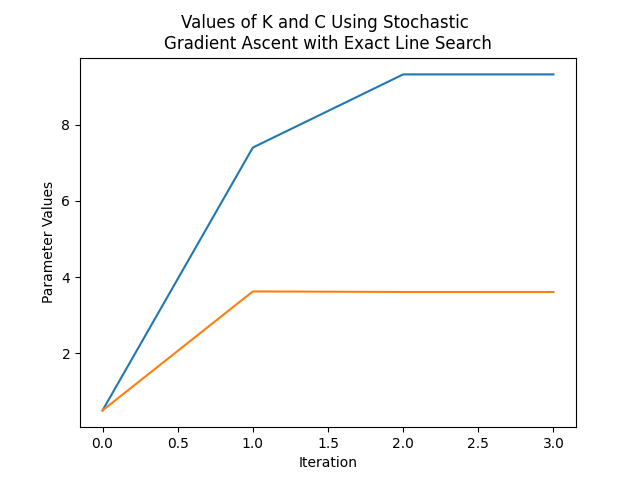
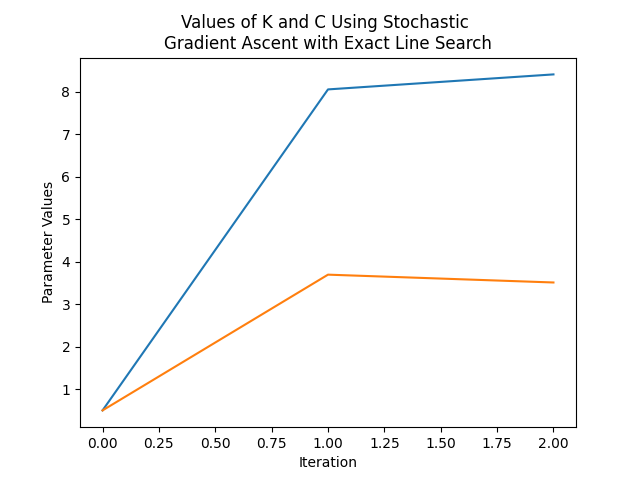
got newtons method working somehow

diff --git a/problem2/Problem2.py b/problem2/Problem2.py
@@ -12,6 +12,7 @@ import seaborn as sns
 from gradient_ascent import gradient_descent_using_exact_line_search
 from accelerated_gradient_ascent import accelerated_gradient_descent_using_exact_line_search
 from stochastic_gradient_ascent import stochastic_gradient_descent_using_exact_line_search
+from newtons_method import newtons_method_using_exact_line_search
 
 def optimizer_1_report(
     y : np.ndarray
@@ -124,26 +125,68 @@ def optimizer_3_report(
     plt.clf()
     plt.cla()
 
+def optimizer_4_report(
+    y : np.ndarray
+) -> None:
+    '''
+    '''
+    best_k, best_c, k_history, c_history, log_likelihood_history = newtons_method_using_exact_line_search(y)
+
+    # Plot Log-Likelihood
+    iterations = np.arange(0, len(log_likelihood_history))
+    sns.lineplot(x = iterations, y = log_likelihood_history)
+
+    plt.title('Log-Likelihood Progression Using \nNewtons Method with Exact Line Search')
+    plt.xlabel('Iteration')
+    plt.ylabel('Log-Likelihood')
+
+    file_directory = os.path.abspath(os.path.join(current_path, '..', '..', 'output', 'newtons_method.png'))
+    plt.savefig(file_directory, dpi = 100)
+
+    plt.clf()
+    plt.cla()
+
+    # Plot K and C History
+    iterations = np.arange(0, len(k_history))
+    sns.lineplot(x = iterations, y = k_history)
+    sns.lineplot(x = iterations, y = c_history)
+
+    plt.title('Values of K and C Using Stochastic \nNewtons Method with Exact Line Search')
+    plt.xlabel('Iteration')
+    plt.ylabel('Parameter Values')
+
+    file_directory = os.path.abspath(os.path.join(current_path, '..', '..', 'output', 'k_and_c_history_newtons_method.png'))
+    plt.savefig(file_directory, dpi = 100)
+
+    plt.clf()
+    plt.cla()
+
 if __name__ == '__main__':
     current_path = os.path.abspath(__file__)
     file_directory = os.path.abspath(os.path.join(current_path, '..', '..', 'data', 'Question2.csv'))
 
     y = np.genfromtxt(file_directory, delimiter = ',').flatten()
 
-    start_time = time.time()
-    optimizer_1_report(y)
-    end_time = time.time()
-    total_time = end_time - start_time
-    print(fr'Total time taken for optimizer 1: {total_time}')
+    # start_time = time.time()
+    # optimizer_1_report(y)
+    # end_time = time.time()
+    # total_time = end_time - start_time
+    # print(fr'Total time taken for optimizer 1: {total_time}')
+
+    # start_time = time.time()
+    # optimizer_2_report(y)
+    # end_time = time.time()
+    # total_time = end_time - start_time
+    # print(fr'Total time taken for optimizer 2: {total_time}')
+
+    # start_time = time.time()
+    # optimizer_3_report(y)
+    # end_time = time.time()
+    # total_time = end_time - start_time
+    # print(fr'Total time taken for optimizer 3: {total_time}')
 
     start_time = time.time()
-    optimizer_2_report(y)
+    optimizer_4_report(y)
     end_time = time.time()
     total_time = end_time - start_time
-    print(fr'Total time taken for optimizer 2: {total_time}')
-
-    start_time = time.time()
-    optimizer_3_report(y)
-    end_time = time.time()
-    total_time = end_time - start_time
-    print(fr'Total time taken for optimizer 3: {total_time}')
+    print(fr'Total time taken for optimizer 4: {total_time}')

diff --git a/problem2/newtons_method.py b/problem2/newtons_method.py
@@ -86,7 +86,7 @@ def _partial_ck(
     c : float,
     y : np.ndarray
 ) -> float:
-    numerator = -y**c * np.log(y)
+    numerator = -y**c * np.array([cmath.log(y_val).real for y_val in y])
     denominator = y**c + 1
     dcdk = np.sum(numerator / denominator)
     return dcdk
@@ -96,7 +96,7 @@ def _partial_kc(
     c : float,
     y : np.ndarray
 ) -> float:
-    numerator = -y**c * np.log(y)
+    numerator = -y**c * np.array([cmath.log(y_val).real for y_val in y])
     denominator = y**c + 1
     dkdc = np.sum(numerator / denominator)
     return dkdc
@@ -109,8 +109,8 @@ def _partial_cc(
     term_one = -1/c**2
 
     term_two_constant = -(k + 1)
-    term_two = y**c*np.log(y)**2 / (y**c + 1) -\
-            y**(2*c)*np.log(y)**2 / (y**c + 1)**2
+    term_two = y**c*np.array([cmath.log(y_val).real for y_val in y])**2 / (y**c + 1) -\
+            y**(2*c)*np.array([cmath.log(y_val).real for y_val in y])**2 / (y**c + 1)**2
     term_two *= term_two_constant
 
     dcdc = np.sum(term_one + term_two)
@@ -197,12 +197,15 @@ def exact_line_search(
 
 def newtons_method_using_exact_line_search(
     y : np.ndarray,
-    tolerance : float = 1e-2
+    tolerance : float = 10,
+    damping_factor : float = 1e-10
 ) -> tuple[float, float, np.ndarray, np.ndarray, np.ndarray]:
     '''
     '''
     _k = 0.5
     _c = 0.5
+
+    alpha = 1e-10
     
     k_history = []
     k_history.append(_k)
@@ -213,22 +216,43 @@ def newtons_method_using_exact_line_search(
     log_likelihood = log_likelihood_function(_k, _c, y)
     log_likelihood_history.append(log_likelihood)
 
-    gradient = log_likelihood_gradient(_k, _c, y)
+    hessian = log_likelihood_hessian(_k, _c, y)
 
-    while (np.dot(gradient.T, gradient) > tolerance):
-        gradient = log_likelihood_gradient(_k, _c, y)
-        meshed_step_size = exact_line_search(_k, _c, y, gradient)
+    omega = -np.linalg.solve(
+        np.linalg.inv(hessian + damping_factor * np.eye(2)),
+        log_likelihood_gradient(_k, _c, y)
+    )
+
+    while (np.amax(np.abs(omega)) > tolerance):
+        omega = -np.linalg.solve(
+            np.linalg.inv(log_likelihood_hessian(_k, _c, y) + damping_factor * np.eye(2)),
+            log_likelihood_gradient(_k, _c, y)
+        )
+
+        print(omega)
         
-        _k = _k + meshed_step_size[0] * gradient[0]
+        _k = _k + alpha * omega[0]
         k_history.append(_k)
 
-        _c = _c + meshed_step_size[1] * gradient[1]
+        _c = _c + alpha * omega[1]
         c_history.append(_c)
 
-        log_likelihood_old = log_likelihood
         log_likelihood = log_likelihood_function(_k, _c, y)
-
         log_likelihood_history.append(log_likelihood)
+
+        while log_likelihood_function(_k, _c, y) > log_likelihood:
+            alpha *= 0.1
+
+            _k = _k + alpha * omega[0]
+            k_history.append(_k)
+
+            _c = _c + alpha * omega[1]
+            c_history.append(_c)
+
+            log_likelihood = log_likelihood_function(_k, _c, y)
+            log_likelihood_history.append(log_likelihood)
+
+        alpha = alpha**0.5
 
     best_k = _k
     best_c = _c
